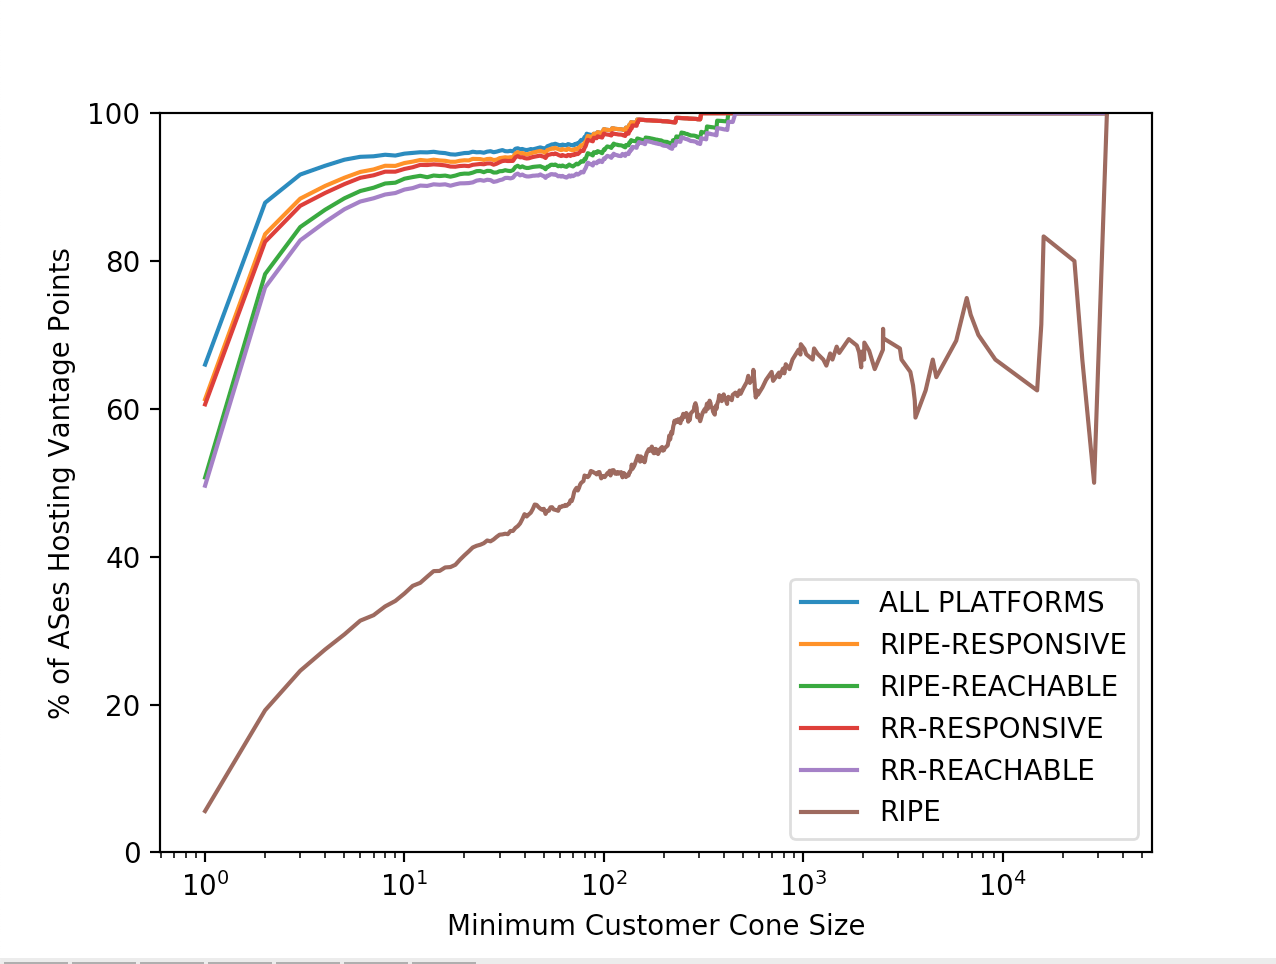
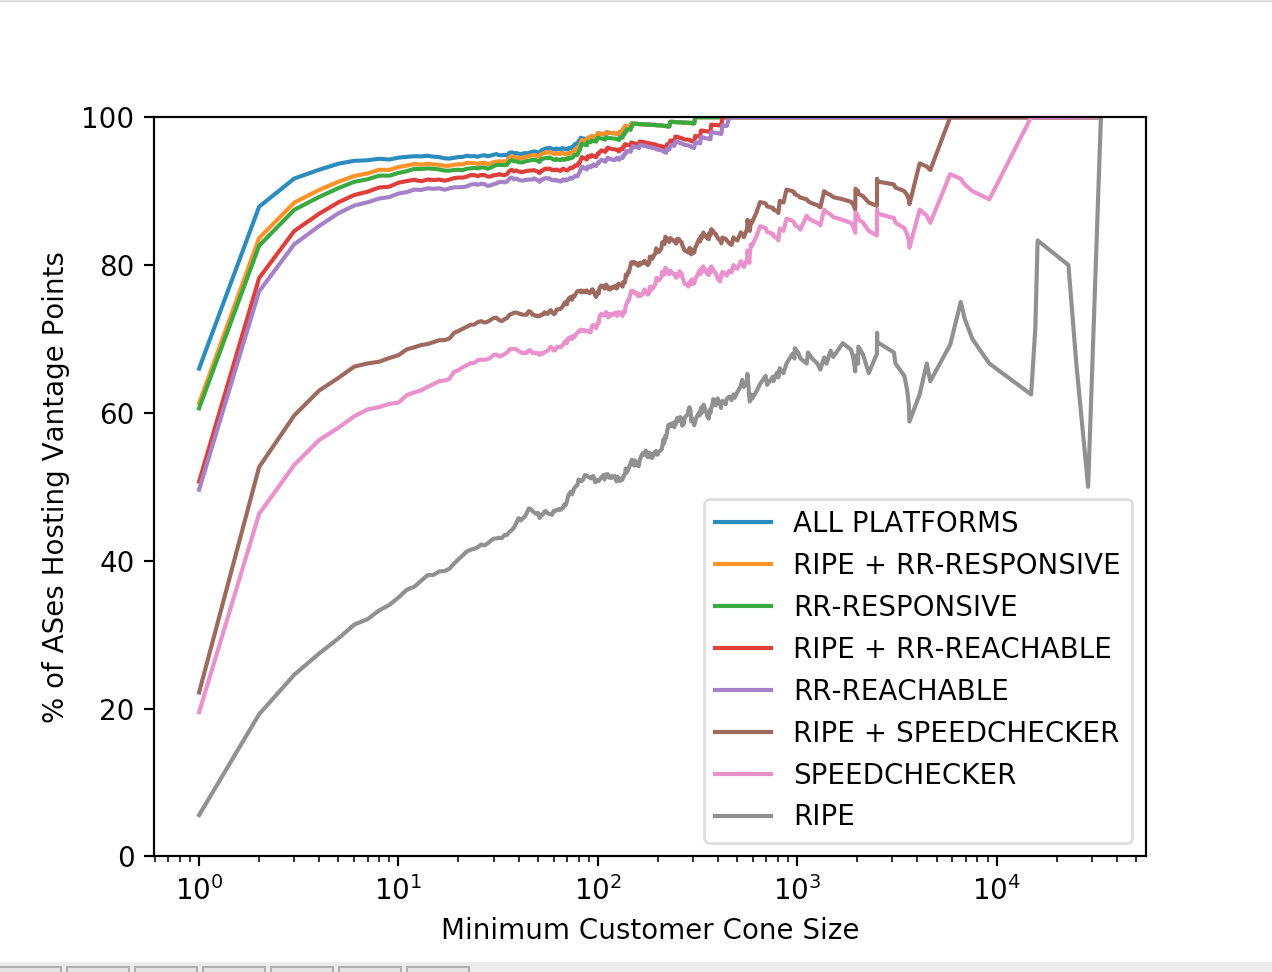
added more data to graphs

diff --git a/all_graph.py b/all_graph.py
@@ -37,6 +37,8 @@ CC_RIPE_RESPONSIVE = {}
 CC_RIPE_REACHABLE = {}
 ALL_LIST = RIPE_LIST + RR_RESPONSIVE_LIST + RR_REACHABLE_LIST + SPEEDCHECKER_LIST
 CC_ALL = {}
+RIPE_SPEEDCHECKER_LIST = SPEEDCHECKER_LIST + RIPE_LIST
+CC_RIPE_SPEEDCHECKER = {}
 
 # dictionary to store AS-CustomerCone data
 # key = customer cone size
@@ -117,6 +119,8 @@ generate_data(RR_REACHABLE_LIST, CC_RR_REACHABLE)
 generate_data(RIPE_REACHABLE_LIST, CC_RIPE_REACHABLE)
 generate_data(RIPE_RESPONSIVE_LIST, CC_RIPE_RESPONSIVE)
 generate_data(ALL_LIST, CC_ALL)
+generate_data(SPEEDCHECKER_LIST, CC_SPEEDCHECKER)
+generate_data(RIPE_SPEEDCHECKER_LIST, CC_RIPE_SPEEDCHECKER)
 # ------- CLEAN UP DATA ---------
 # ========================================================
 RIPE_PLOT = {}
@@ -170,14 +174,38 @@ ALL_X_VALUES = list(ALL_PLOT.keys())
 ALL_Y_VALUES = []
 for key in ALL_X_VALUES:
     ALL_Y_VALUES.append(ALL_PLOT[key])
+# =========================================================
+SPEEDCHECKER_PLOT = {}
+for key in CC_SPEEDCHECKER:
+    SPEEDCHECKER_PLOT[key] = round(100 * CC_SPEEDCHECKER[key][1] /
+                                   CC_SPEEDCHECKER[key][2], 2)
+SPEEDCHECKER_X_VALUES = list(SPEEDCHECKER_PLOT.keys())
+SPEEDCHECKER_Y_VALUES = []
+for key in SPEEDCHECKER_X_VALUES:
+    SPEEDCHECKER_Y_VALUES.append(SPEEDCHECKER_PLOT[key])
+# =========================================================
+RIPE_SPEEDCHECKER_PLOT = {}
+for key in CC_RIPE_SPEEDCHECKER:
+    RIPE_SPEEDCHECKER_PLOT[key] = round(100 * CC_RIPE_SPEEDCHECKER[key][1] /
+                                        CC_RIPE_SPEEDCHECKER[key][2], 2)
+RIPE_SPEEDCHECKER_X_VALUES = list(RIPE_SPEEDCHECKER_PLOT.keys())
+RIPE_SPEEDCHECKER_Y_VALUES = []
+for key in RIPE_SPEEDCHECKER_X_VALUES:
+    RIPE_SPEEDCHECKER_Y_VALUES.append(RIPE_SPEEDCHECKER_PLOT[key])
 # ------- PLOT DATA -------
 plt.semilogx(ALL_X_VALUES, ALL_Y_VALUES, label="ALL PLATFORMS")
-plt.semilogx(RIPE_RESPONSIVE_X_VALUES, RIPE_RESPONSIVE_Y_VALUES, label="RIPE-RESPONSIVE")
-plt.semilogx(RIPE_REACHABLE_X_VALUES, RIPE_REACHABLE_Y_VALUES, label="RIPE-REACHABLE")
+plt.semilogx(RIPE_RESPONSIVE_X_VALUES, RIPE_RESPONSIVE_Y_VALUES, label="RIPE + RR-RESPONSIVE")
 # PLOTTING RESPONSIVE VALUES =============================
 plt.semilogx(RESPONSIVE_X_VALUES, RESPONSIVE_Y_VALUES, label="RR-RESPONSIVE")
+plt.semilogx(RIPE_REACHABLE_X_VALUES, RIPE_REACHABLE_Y_VALUES,
+             label="RIPE + RR-REACHABLE")
 # PLOTTING REACHABLE VALUES =============================-
 plt.semilogx(REACHABLE_X_VALUES, REACHABLE_Y_VALUES, label="RR-REACHABLE")
+# PLOTTING RIPE_SPEEDCHECKER VALUES ======================
+plt.semilogx(RIPE_SPEEDCHECKER_X_VALUES, RIPE_SPEEDCHECKER_Y_VALUES,
+             label="RIPE + SPEEDCHECKER")
+# PLOTTING SPEEDCHECKER VALUES ===========================
+plt.semilogx(SPEEDCHECKER_X_VALUES, SPEEDCHECKER_Y_VALUES, label="SPEEDCHECKER")
 # PLOTTING RIPE VALUES ===================================
 plt.semilogx(RIPE_X_VALUES, RIPE_Y_VALUES, label="RIPE")
 # PLOT INFORMATION =======================================
